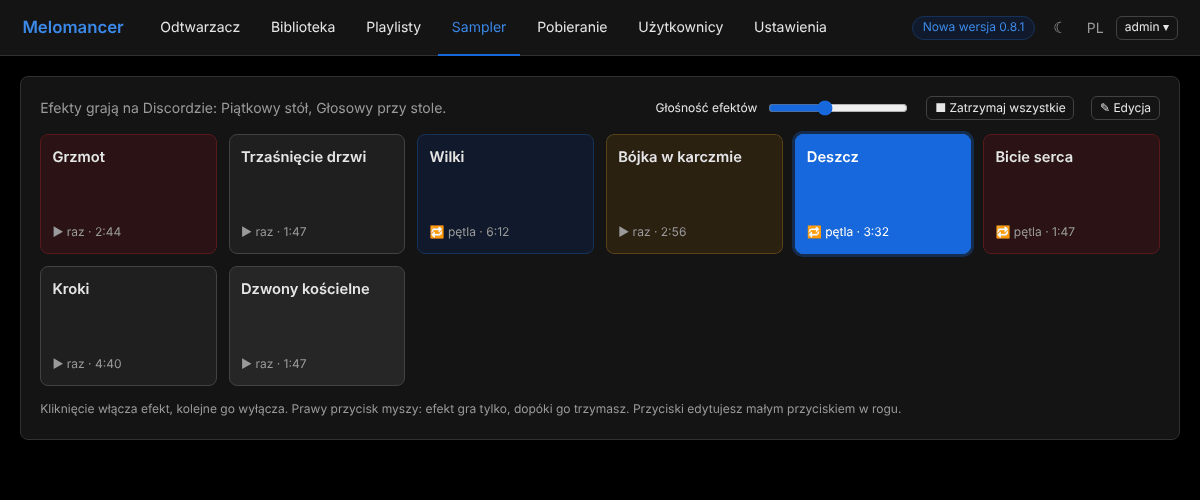
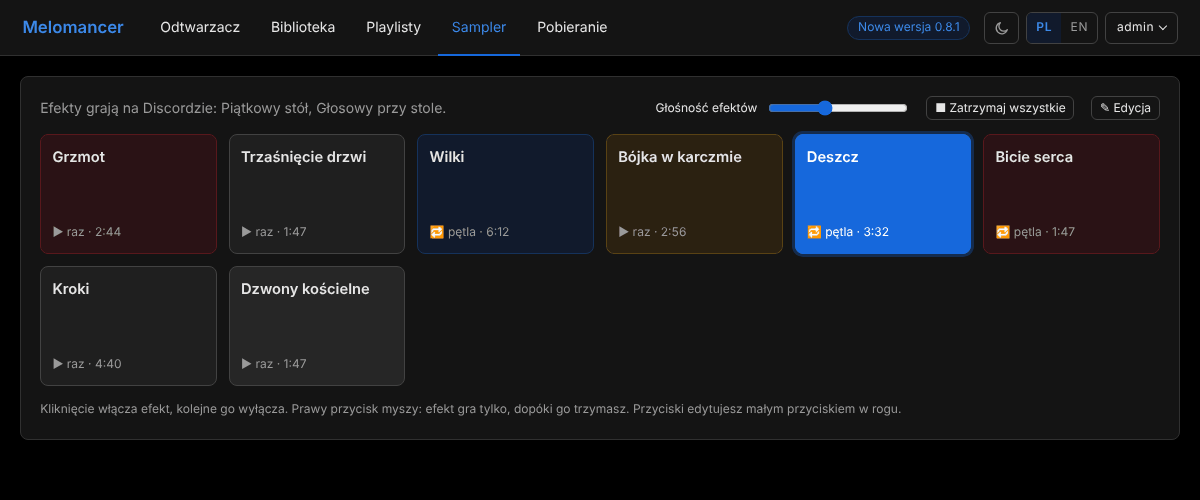
Documentation screenshots show the new header and the user menu (#16)
The pictures in docs/img/ are retaken from the current panel: the framed header controls, the theme icon, and the top bar without Users and Settings (they are in the menu under the user name now). The screenshot script opens Settings by its name in that menu.

Changed region(s): [[0.5242, 0.03, 0.9867, 0.09]]

diff --git a/scripts/dev/screenshots.py b/scripts/dev/screenshots.py
@@ -46,13 +46,13 @@ MINE = {"t01": 0, "t08": 0, "t12": 0}  # personal tag "session 3" on these
 TEXT = {
     "en": {
         "set1": "Dark Coast", "set2": "Sunday Campaign", "combat": "Combat", "locations": "Locations", "scenes": "Scenes",
-        "harbour": "Harbour at night", "tavern": "Old tavern", "forest": "Forest road", "investigation": "Investigation",
+        "settings": "Settings", "harbour": "Harbour at night", "tavern": "Old tavern", "forest": "Forest road", "investigation": "Investigation",
         "dread": "Dread", "guild": "Friday Table", "channels": ["Table voice", "Backstage"], "mine": "session 3",
         "pads": ["Thunder", "Door slam", "Wolves", "Tavern brawl", "Rain", "Heartbeat", "Footsteps", "Church bells"],
     },
     "pl": {
         "set1": "Mroczne Wybrzeże", "set2": "Niedzielna kampania", "combat": "Walka", "locations": "Lokacje", "scenes": "Sceny",
-        "harbour": "Port nocą", "tavern": "Stara karczma", "forest": "Leśny trakt", "investigation": "Śledztwo",
+        "settings": "Ustawienia", "harbour": "Port nocą", "tavern": "Stara karczma", "forest": "Leśny trakt", "investigation": "Śledztwo",
         "dread": "Groza", "guild": "Piątkowy stół", "channels": ["Głosowy przy stole", "Zaplecze"], "mine": "sesja 3",
         "pads": ["Grzmot", "Trzaśnięcie drzwi", "Wilki", "Bójka w karczmie", "Deszcz", "Bicie serca", "Kroki", "Dzwony kościelne"],
     },
@@ -209,7 +209,8 @@ def main() -> int:
                     page.wait_for_selector(".fxpad")
                     page.wait_for_timeout(400)
                     shoot(page, "sampler", lang, dark)
-                    tabs.nth(6).click()
+                    page.click("header.top .hdr-user")   # Settings is in the menu under the user name
+                    page.locator(".menu .menuitem", has_text=TEXT[lang]["settings"]).click()
                     page.wait_for_selector(".tile .spark polyline")
                     page.wait_for_timeout(400)
                     shoot(page, "settings", lang, dark)
